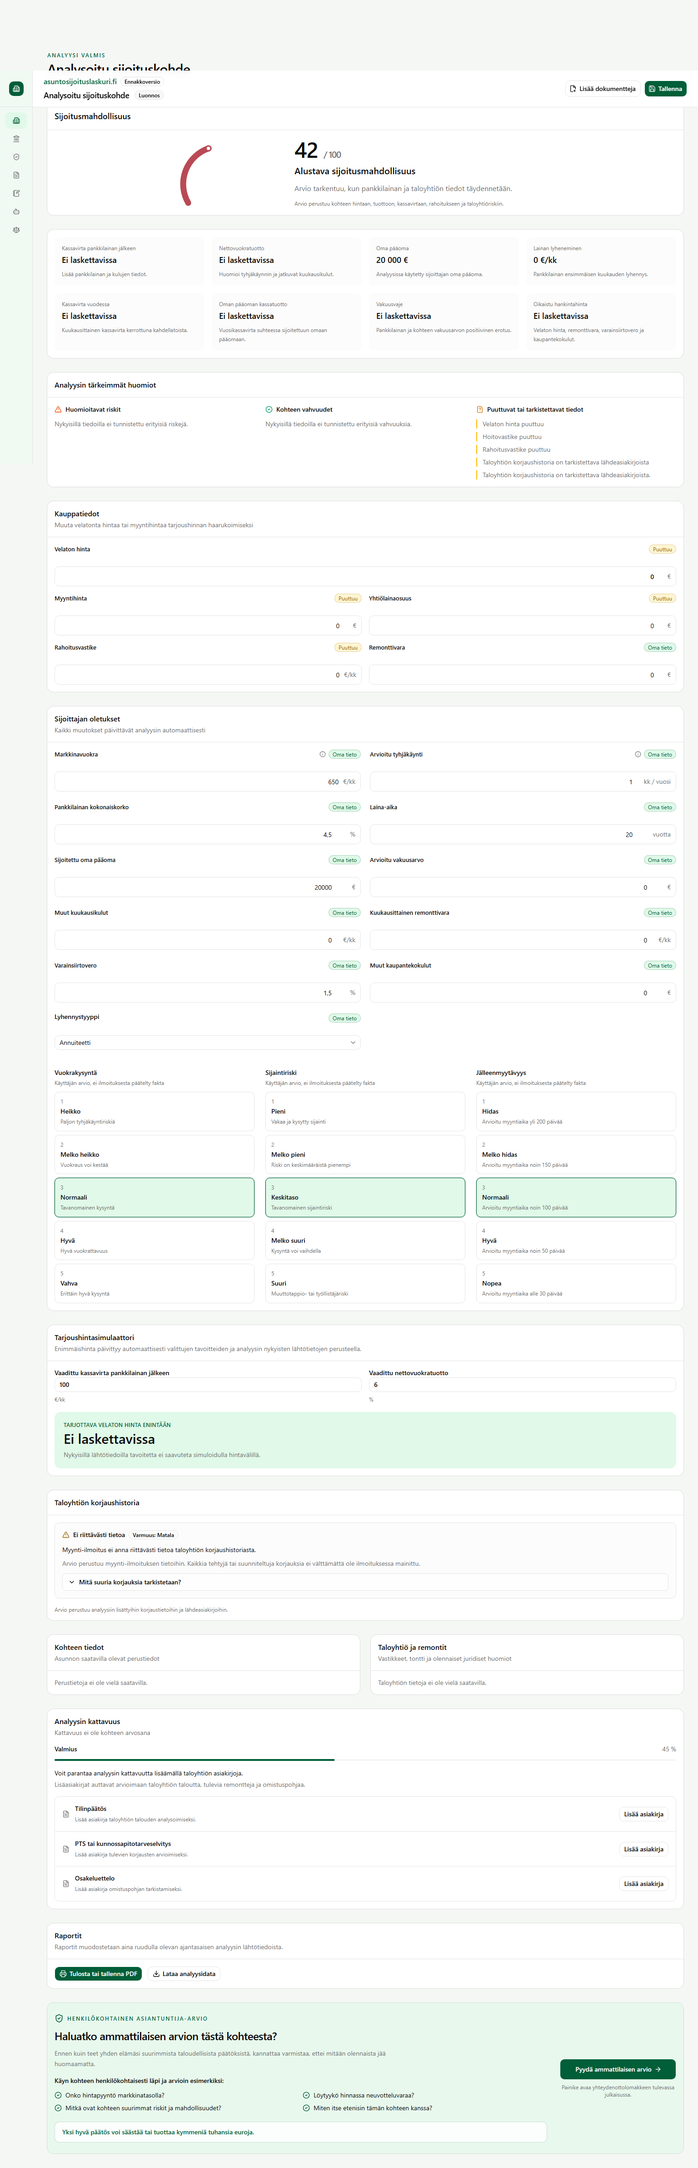
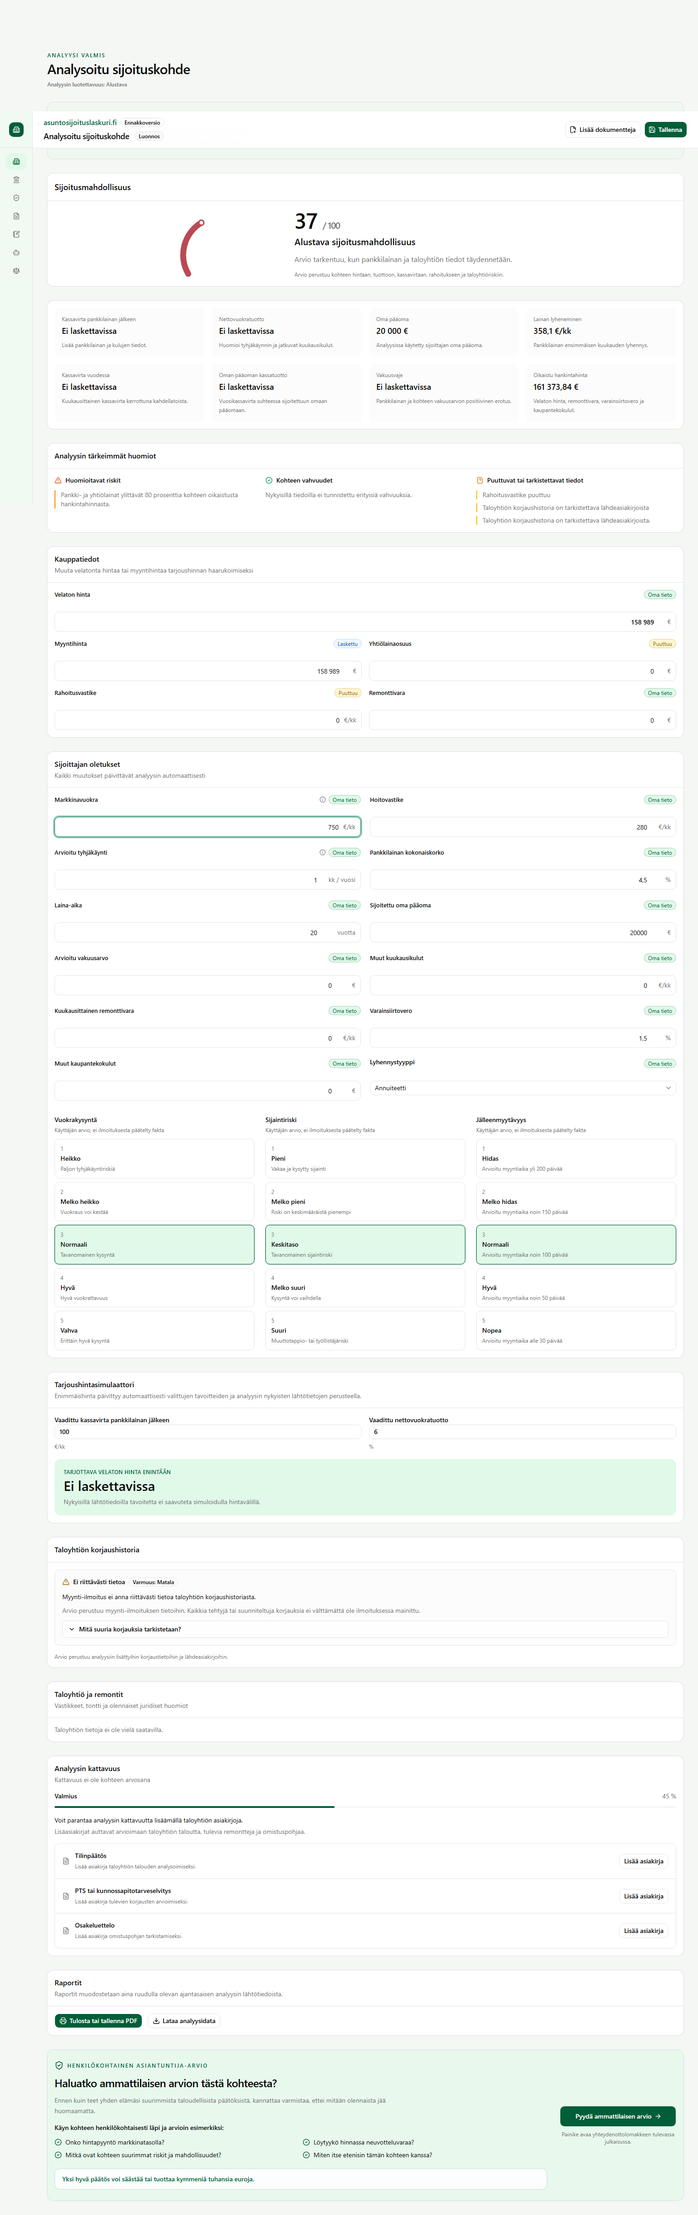
Improve analysis entry flow and remove duplicate property information

diff --git a/src/components/property/property-workspace.tsx b/src/components/property/property-workspace.tsx
@@ -3,6 +3,7 @@
 import { useState } from "react";
 import { TooltipProvider } from "@/components/ui/tooltip";
 import { analysisFacts, analysisTitle } from "@/core/analysis/analysis-presentation";
+import { missingCriticalAnalysisFields } from "@/core/analysis/analysis-entry";
 import { adaptInvestmentScore } from "@/core/analysis/investment-score-adapter";
 import { synchronizePrices, type PrimaryPriceField } from "@/core/calculations/purchase-price";
 import type { AnalysisReliability } from "@/core/analysis/requirements";
@@ -15,13 +16,14 @@ import { AnalysisCoverageCard } from "./analysis-coverage-card";
 import { AnalysisHighlights, KeyMetrics } from "./analysis-summary";
 import { AssumptionsCard, type AssumptionValues } from "./assumptions-card";
 import { DecisionSummaryCard } from "./decision-summary-card";
-import { HousingCompanyCard, PropertyDetailsCard } from "./details-cards";
+import { HousingCompanyCard } from "./details-cards";
 import { ImportSourceReview } from "./import-source-review";
 import { InvestmentOverallScore } from "./investment-overall-score";
-import { ProfessionalEvaluationCard } from "./professional-evaluation-card";
 import { OfferPriceCard } from "./offer-price-card";
-import { ReportsCard } from "./reports-card";
+import { ParserAnalysisSummary } from "./parser-analysis-summary";
+import { ProfessionalEvaluationCard } from "./professional-evaluation-card";
 import { PurchaseCard } from "./purchase-card";
+import { ReportsCard } from "./reports-card";
 import { WorkspaceHeader } from "./workspace-header";
 import { WorkspaceSidebar } from "./workspace-sidebar";
 
@@ -34,35 +36,33 @@ export function PropertyWorkspace({ importedData = {}, title, onRequestEvaluatio
   const [purchase, setPurchase] = useState<Record<PurchaseFieldKey, number>>(() => purchaseFromImport(importedData));
   const [statuses, setStatuses] = useState<Record<PurchaseFieldKey, FieldStatus>>({ debtFreePrice: importedData.debtFreePrice === undefined ? "missing" : "parser", salePrice: importedData.salePrice === undefined ? "missing" : "parser", companyLoanShare: importedData.companyLoanShare === undefined ? "missing" : "parser", financingFeeMonthly: importedData.financingFeeMonthly === undefined ? "missing" : "parser", renovationReserve: "user" });
   const [lastEditedPriceField, setLastEditedPriceField] = useState<PrimaryPriceField>("debtFreePrice");
-  const [assumptions, setAssumptions] = useState<AssumptionValues>(() => ({ monthlyRent: typeof importedData.currentRentMonthly === "number" ? importedData.currentRentMonthly : 650, vacancyMonths: 1, annualInterestRate: 4.5, loanTermYears: 20, equity: 20_000, repaymentType: "annuity", rentalDemand: 3, otherCostsMonthly: 0, maintenanceReserveMonthly: 0, collateralValue: typeof importedData.debtFreePrice === "number" ? importedData.debtFreePrice * .7 : 0, transferTaxRate: 1.5, transactionCosts: 0, locationRisk: 3, resaleLiquidity: 3 }));
+  const [assumptions, setAssumptions] = useState<AssumptionValues>(() => ({ monthlyRent: typeof importedData.currentRentMonthly === "number" ? importedData.currentRentMonthly : 0, maintenanceFeeMonthly: typeof importedData.maintenanceFeeMonthly === "number" ? importedData.maintenanceFeeMonthly : 0, vacancyMonths: 1, annualInterestRate: 4.5, loanTermYears: 20, equity: 20_000, repaymentType: "annuity", rentalDemand: 3, otherCostsMonthly: 0, maintenanceReserveMonthly: 0, collateralValue: typeof importedData.debtFreePrice === "number" ? importedData.debtFreePrice * .7 : 0, transferTaxRate: 1.5, transactionCosts: 0, locationRisk: 3, resaleLiquidity: 3 }));
   const [analysisUpdating, setAnalysisUpdating] = useState(false);
   const repairHistory = assessRepairHistory({ renovations: data.renovations ?? [], constructionYear: typeof data.constructionYear === "number" ? data.constructionYear : undefined, documentKinds: data.documentKinds ?? [], buildingType: typeof data.buildingType === "string" ? data.buildingType : undefined });
   const bankLoanAmount = Math.max(0, purchase.salePrice - assumptions.equity);
-  const scoreSource = { debtFreePrice: purchase.debtFreePrice || undefined, salePrice: purchase.salePrice || undefined, currentRentMonthly: assumptions.monthlyRent || undefined, maintenanceFeeMonthly: typeof data.maintenanceFeeMonthly === "number" ? data.maintenanceFeeMonthly : undefined, financingFeeMonthly: statuses.financingFeeMonthly === "missing" ? undefined : purchase.financingFeeMonthly, companyLoanShare: statuses.companyLoanShare === "missing" ? undefined : purchase.companyLoanShare, vacancyMonths: assumptions.vacancyMonths, otherCostsMonthly: assumptions.otherCostsMonthly, maintenanceReserveMonthly: assumptions.maintenanceReserveMonthly, renovationReserve: purchase.renovationReserve, transferTaxRate: assumptions.transferTaxRate, transactionCosts: assumptions.transactionCosts, bankLoanAmount, annualInterestRate: assumptions.annualInterestRate, loanTermYears: assumptions.loanTermYears, repaymentType: assumptions.repaymentType, equity: assumptions.equity, collateralValue: assumptions.collateralValue || undefined, rentalDemand: assumptions.rentalDemand, locationRisk: assumptions.locationRisk, resaleLiquidity: assumptions.resaleLiquidity, repairHistory };
+  const effectiveFinancingFee = purchase.companyLoanShare === 0 && statuses.companyLoanShare !== "missing" ? 0 : statuses.financingFeeMonthly === "missing" ? undefined : purchase.financingFeeMonthly;
+  const scoreSource = { debtFreePrice: purchase.debtFreePrice || undefined, salePrice: purchase.salePrice || undefined, currentRentMonthly: assumptions.monthlyRent || undefined, maintenanceFeeMonthly: assumptions.maintenanceFeeMonthly || undefined, financingFeeMonthly: effectiveFinancingFee, companyLoanShare: statuses.companyLoanShare === "missing" ? undefined : purchase.companyLoanShare, vacancyMonths: assumptions.vacancyMonths, otherCostsMonthly: assumptions.otherCostsMonthly, maintenanceReserveMonthly: assumptions.maintenanceReserveMonthly, renovationReserve: purchase.renovationReserve, transferTaxRate: assumptions.transferTaxRate, transactionCosts: assumptions.transactionCosts, bankLoanAmount, annualInterestRate: assumptions.annualInterestRate, loanTermYears: assumptions.loanTermYears, repaymentType: assumptions.repaymentType, equity: assumptions.equity, collateralValue: assumptions.collateralValue || undefined, rentalDemand: assumptions.rentalDemand, locationRisk: assumptions.locationRisk, resaleLiquidity: assumptions.resaleLiquidity, repairHistory };
   const overallScore = adaptInvestmentScore(scoreSource);
   const presentationData = { ...data, listingTitle: data.listingTitle ?? (title && title !== "Uusi kohde" ? title : undefined) };
   const pageTitle = analysisTitle(presentationData);
   const facts = analysisFacts(presentationData);
   const reliability = data.analysisReliability === "high" ? "Korkea" : data.analysisReliability === "moderate" ? "Kohtalainen" : "Alustava";
+  const missingCriticalFields = missingCriticalAnalysisFields({ debtFreePrice: purchase.debtFreePrice, maintenanceFeeMonthly: assumptions.maintenanceFeeMonthly, monthlyRent: assumptions.monthlyRent, annualInterestRate: assumptions.annualInterestRate, loanTermYears: assumptions.loanTermYears, vacancyMonths: assumptions.vacancyMonths, companyLoanShare: purchase.companyLoanShare, financingFeeKnown: effectiveFinancingFee !== undefined });
+  const analysisReady = missingCriticalFields.length === 0;
 
   function updatePurchase(key: PurchaseFieldKey, value: number) { setPurchase((current) => ["debtFreePrice", "salePrice", "companyLoanShare"].includes(key) ? { ...current, ...synchronizePrices(current, key as "debtFreePrice" | "salePrice" | "companyLoanShare", value, lastEditedPriceField) } : { ...current, [key]: value }); if (key === "debtFreePrice" || key === "salePrice") setLastEditedPriceField(key); setStatuses((current) => ({ ...current, [key]: "user", ...(key === "debtFreePrice" ? { salePrice: "derived" as const } : key === "salePrice" ? { debtFreePrice: "derived" as const } : key === "companyLoanShare" ? { [lastEditedPriceField === "debtFreePrice" ? "salePrice" : "debtFreePrice"]: "derived" as const } : {}) })); }
   function updateAssumption<K extends keyof AssumptionValues>(key: K, value: AssumptionValues[K]) { setAssumptions((current) => ({ ...current, [key]: value })); }
   function addDocument(kind: RepairDocumentKind) { setData((current) => ({ ...current, documentKinds: [...new Set([...(current.documentKinds ?? []), kind])] })); }
-  function updateImportedField(field: NormalizedFieldKey, value: number | string | undefined) { setData((current) => { const next = { ...current }; if (value === undefined) delete next[field]; else next[field] = value; return next; }); if (["debtFreePrice", "salePrice", "companyLoanShare", "financingFeeMonthly"].includes(field)) setPurchase((current) => ({ ...current, [field]: typeof value === "number" ? value : 0 })); }
+  function updateImportedField(field: NormalizedFieldKey, value: number | string | undefined) { setData((current) => { const next = { ...current }; if (value === undefined) delete next[field]; else next[field] = value; return next; }); if (["debtFreePrice", "salePrice", "companyLoanShare", "financingFeeMonthly"].includes(field)) setPurchase((current) => ({ ...current, [field]: typeof value === "number" ? value : 0 })); if (field === "maintenanceFeeMonthly" && typeof value === "number") updateAssumption("maintenanceFeeMonthly", value); if (field === "currentRentMonthly" && typeof value === "number") updateAssumption("monthlyRent", value); }
 
   return <TooltipProvider><div className="min-h-screen"><WorkspaceSidebar /><div className="min-w-0 min-[1100px]:pl-18 min-[1600px]:pl-60"><WorkspaceHeader title={pageTitle} location={typeof data.city === "string" ? data.city : ""} /><main className="mx-auto w-full max-w-[1500px] min-w-0 p-4 md:p-6 lg:p-8"><div className="min-w-0 space-y-8">
-    <header><p className="text-xs font-semibold uppercase tracking-[0.16em] text-success">Analyysi valmis</p><h1 className="mt-1 break-words text-2xl font-semibold tracking-tight sm:text-3xl">{pageTitle}</h1>{facts.length ? <p className="mt-2 text-sm text-muted-foreground">{facts.join(" · ")}</p> : null}<p className="mt-2 text-xs font-medium text-muted-foreground">Analyysin luotettavuus: {reliability}</p></header>
-    {analysisUpdating ? <p role="status" className="text-sm font-medium text-primary">Päivitetään analyysiä…</p> : null}
-    <InvestmentOverallScore {...overallScore} />
-    <KeyMetrics analysis={overallScore} />
-    <AnalysisHighlights rating={overallScore} />
+    <header><p className="text-xs font-semibold uppercase tracking-[0.16em] text-success">{analysisReady ? "Analyysi valmis" : "Analyysin lähtötiedot"}</p><h1 className="mt-1 break-words text-2xl font-semibold tracking-tight sm:text-3xl">{pageTitle}</h1>{facts.length ? <p className="mt-2 text-sm text-muted-foreground">{facts.join(" · ")}</p> : null}<p className="mt-2 text-xs font-medium text-muted-foreground">Analyysin luotettavuus: {reliability}</p></header>
+    <ParserAnalysisSummary result={data.importReview} missingFields={missingCriticalFields} compact={analysisReady} />
+    {analysisReady && analysisUpdating ? <p role="status" className="text-sm font-medium text-primary">Päivitetään analyysiä…</p> : null}
+    {analysisReady ? <><InvestmentOverallScore {...overallScore} /><KeyMetrics analysis={overallScore} /><AnalysisHighlights rating={overallScore} /></> : null}
     <section id="talous" className="scroll-mt-24 space-y-8"><PurchaseCard values={purchase} statuses={statuses} onChange={updatePurchase} /><AssumptionsCard values={assumptions} onChange={updateAssumption} onUpdating={setAnalysisUpdating} /></section>
-    <OfferPriceCard input={scoreSource} />
-    <DecisionSummaryCard repairHistory={repairHistory} />
-    <section id="kohde" className="grid min-w-0 scroll-mt-24 gap-6 lg:grid-cols-2"><PropertyDetailsCard importedData={data} /><HousingCompanyCard importedData={data} /></section>
-    <AnalysisCoverageCard documentKinds={data.documentKinds} onDocumentAdded={addDocument} />
+    {analysisReady ? <><OfferPriceCard input={scoreSource} /><DecisionSummaryCard repairHistory={repairHistory} /><section id="kohde" className="min-w-0 scroll-mt-24"><HousingCompanyCard importedData={data} /></section><AnalysisCoverageCard documentKinds={data.documentKinds} onDocumentAdded={addDocument} /></> : null}
     {data.importReview ? <section id="dokumentit" className="scroll-mt-24"><h2 className="mb-3 text-lg font-semibold">Analyysin lähtötiedot</h2><ImportSourceReview result={data.importReview} onChange={updateImportedField} /></section> : null}
-    <ReportsCard input={scoreSource} analysis={overallScore} />
-    <ProfessionalEvaluationCard onRequestEvaluation={onRequestEvaluation} />
+    {analysisReady ? <><ReportsCard input={scoreSource} analysis={overallScore} /><ProfessionalEvaluationCard onRequestEvaluation={onRequestEvaluation} /></> : null}
   </div></main></div></div></TooltipProvider>;
 }

diff --git a/src/components/property/assumptions-card.tsx b/src/components/property/assumptions-card.tsx
@@ -9,7 +9,7 @@ import { PropertyField } from "./property-field";
 import { RentalDemandSelector } from "./rental-demand-selector";
 import { SourceBadge } from "./status-badge";
 
-export type AssumptionValues = { monthlyRent: number; vacancyMonths: number; annualInterestRate: number; loanTermYears: number; equity: number; repaymentType: RepaymentType; rentalDemand: number; otherCostsMonthly: number; maintenanceReserveMonthly: number; collateralValue: number; transferTaxRate: number; transactionCosts: number; locationRisk: number; resaleLiquidity: number };
+export type AssumptionValues = { monthlyRent: number; maintenanceFeeMonthly: number; vacancyMonths: number; annualInterestRate: number; loanTermYears: number; equity: number; repaymentType: RepaymentType; rentalDemand: number; otherCostsMonthly: number; maintenanceReserveMonthly: number; collateralValue: number; transferTaxRate: number; transactionCosts: number; locationRisk: number; resaleLiquidity: number };
 
 function DebouncedRentField({ value, onChange, onUpdating }: { value: number; onChange: (value: number) => void; onUpdating: (value: boolean) => void }) {
   const [draft, setDraft] = useState(String(value));
@@ -21,6 +21,7 @@ export function AssumptionsCard({ values, onChange, onUpdating }: { values: Assu
   const repaymentLabels: Record<RepaymentType, string> = { annuity: "Annuiteetti", equal_principal: "Tasalyhennys", interest_only: "Vain korko", bullet: "Kertalyhenteinen laina" };
   return <Card><CardHeader className="border-b"><CardTitle>Sijoittajan oletukset</CardTitle><CardDescription>Kaikki muutokset päivittävät analyysin automaattisesti</CardDescription></CardHeader><CardContent className="space-y-8"><div className="grid min-w-0 grid-cols-1 gap-x-5 gap-y-6 sm:grid-cols-2 min-[1600px]:grid-cols-3">
     <DebouncedRentField value={values.monthlyRent} onChange={(value) => onChange("monthlyRent", value)} onUpdating={onUpdating} />
+    <PropertyField id="maintenance-fee" label="Hoitovastike" status="user" suffix="€/kk" type="number" min={0} value={values.maintenanceFeeMonthly} onChange={(event) => onChange("maintenanceFeeMonthly", Math.max(0, event.currentTarget.valueAsNumber || 0))} />
     <PropertyField id="vacancy-months" label="Arvioitu tyhjäkäynti" status="user" suffix="kk / vuosi" type="number" min={0} max={12} step={1} value={values.vacancyMonths} onChange={(event) => onChange("vacancyMonths", Math.min(12, Math.max(0, Math.round(event.currentTarget.valueAsNumber || 0))))} help={`Vuokrattuna arviolta ${12 - values.vacancyMonths} kk vuodessa.`} />
     <PropertyField id="interest" label="Pankkilainan kokonaiskorko" status="user" suffix="%" type="number" min={0} step="0.1" value={values.annualInterestRate} onChange={(event) => onChange("annualInterestRate", Math.max(0, event.currentTarget.valueAsNumber || 0))} />
     <PropertyField id="loan-term" label="Laina-aika" status="user" suffix="vuotta" type="number" min={1} value={values.loanTermYears} onChange={(event) => onChange("loanTermYears", Math.max(1, event.currentTarget.valueAsNumber || 1))} />

diff --git a/tests/analysis-header-layout.test.ts b/tests/analysis-header-layout.test.ts
@@ -11,5 +11,5 @@ test("huonejako, rakennustyyppi ja kerros normalisoituvat", () => { assert.equal
 test("huonejako ja rakennustyyppi johdetaan ilmoituksen otsikosta", () => { const result = parseListingText("", "etuovi", [{ field: "listingTitle", value: "3h + k + s, rivitalo Vaasa", label: "otsikko", excerpt: "h1" }]); assert.equal(result.findings.find((item) => item.field === "roomDescription")?.normalizedValue, "3h + k + s"); assert.equal(result.findings.find((item) => item.field === "buildingType")?.normalizedValue, "terraced"); });
 test("tontin omistusmuodot parsitaan automaattisesti", () => { for (const [input, expected] of [["Oma tontti", "owned"], ["Vuokratontti", "leased"], ["Valinnainen vuokratontti", "optional_leasehold"]] as const) assert.equal(parseListingText(`Tontin omistusmuoto: ${input}`).findings[0]?.normalizedValue, expected); });
 test("saatavilla oleva kuntotieto parsitaan", () => { assert.equal(parseListingText("Asunnon kunto: Hyvä").findings.find((item) => item.field === "condition")?.normalizedValue, "Hyvä"); });
-test("sivujärjestys alkaa johtopäätöksestä ja lähteet ovat lopussa", async () => { const workspace = await readFile(new URL("../src/components/property/property-workspace.tsx", import.meta.url), "utf8"); const score = workspace.indexOf("<InvestmentOverallScore"); const details = workspace.indexOf("<PropertyDetailsCard"); const sources = workspace.indexOf("<ImportSourceReview"); assert.ok(score > 0 && details > score && sources > details); assert.doesNotMatch(workspace, />Uusi kohde</); for (const value of ["AnalysisHighlights", "KeyMetrics", "Analyysin lähtötiedot"]) assert.ok(workspace.includes(value)); });
+test("sivujärjestys alkaa parseriyhteenvedosta ja lähteet ovat lopussa", async () => { const workspace = await readFile(new URL("../src/components/property/property-workspace.tsx", import.meta.url), "utf8"); const parser = workspace.indexOf("<ParserAnalysisSummary"); const score = workspace.indexOf("<InvestmentOverallScore"); const sources = workspace.indexOf("<ImportSourceReview"); assert.ok(parser > 0 && score > parser && sources > score); assert.doesNotMatch(workspace, /PropertyDetailsCard|>Kohteen tiedot</); for (const value of ["AnalysisHighlights", "KeyMetrics", "Analyysin lähtötiedot", "analysisReady ?"]) assert.ok(workspace.includes(value)); });
 test("puuttuvat kentät ja suuret tonttilomakkeet eivät renderöidy", async () => { const details = await readFile(new URL("../src/components/property/details-cards.tsx", import.meta.url), "utf8"); assert.doesNotMatch(details, /SelectField|SelectTrigger|placeholder="Ei tiedossa"/); assert.match(details, /if \(present\(importedData\.landOwnership\)\)/); assert.match(details, /if \(present\(importedData\.condition\)\)/); });

diff --git a/src/components/property/parser-analysis-summary.tsx b/src/components/property/parser-analysis-summary.tsx
@@ -1,0 +1,19 @@
+import { CheckCircle2 } from "lucide-react";
+import { Card, CardContent } from "@/components/ui/card";
+import type { ListingParseResult } from "@/core/parser/listing-parser";
+import { criticalFields } from "@/core/parser/synonyms";
+
+function reliabilityStars(result?: ListingParseResult): string {
+  if (!result?.findings.length) return "☆☆☆☆☆";
+  const average = result.findings.reduce((sum, finding) => sum + finding.confidenceScore, 0) / result.findings.length;
+  const filled = Math.max(1, Math.min(5, Math.round(average / 20)));
+  return `${"★".repeat(filled)}${"☆".repeat(5 - filled)}`;
+}
+
+export function ParserAnalysisSummary({ result, missingFields, compact = false }: { result?: ListingParseResult; missingFields: string[]; compact?: boolean }) {
+  const found = result ? new Set(result.findings.filter((finding) => finding.validationResult === "accepted" && !finding.conflicts.length).map((finding) => finding.field)).size : 0;
+  const complete = missingFields.length === 0;
+  const stars = reliabilityStars(result);
+  const title = result ? "Analysoimme ilmoituksen onnistuneesti" : complete ? "Analyysin lähtötiedot ovat valmiit" : "Täydennä analyysin lähtötiedot";
+  return <Card className="border-success/25 bg-success-soft/30"><CardContent className={compact ? "py-3" : "space-y-5 py-2"}><div className="flex gap-3"><CheckCircle2 className="mt-0.5 size-5 shrink-0 text-success" /><div className="min-w-0"><p className="font-semibold">{title}</p>{result ? <p className="mt-1 text-sm text-muted-foreground">Löysimme <strong className="text-foreground">{found} / {criticalFields.length}</strong> analyysissä tarvittavaa tietoa automaattisesti.</p> : <p className="mt-1 text-sm text-muted-foreground">{complete ? "Kaikki analyysin muodostamiseen tarvittavat kriittiset tiedot ovat käytettävissä." : "Syötä vain analyysin muodostamiseen tarvittavat puuttuvat tiedot."}</p>}{result ? <p className="mt-2 text-sm"><span className="text-muted-foreground">Parserin luotettavuus:</span> <span aria-label={`${stars.replaceAll("☆", "").length} tähteä viidestä`} className="tracking-wider text-success">{stars}</span></p> : null}</div></div>{!compact && !complete ? <div className="rounded-lg border bg-background/70 p-4"><p className="text-sm font-medium">Täydennä vielä nämä kriittiset tiedot:</p><ul className="mt-2 list-inside list-disc space-y-1 text-sm text-muted-foreground">{missingFields.map((field) => <li key={field}>{field}</li>)}</ul><p className="mt-3 text-sm text-muted-foreground">Kun tiedot ovat valmiit, muodostamme sijoitusanalyysin automaattisesti.</p></div> : null}</CardContent></Card>;
+}

diff --git a/tests/analysis-entry-flow.test.ts b/tests/analysis-entry-flow.test.ts
@@ -1,0 +1,22 @@
+import test from "node:test";
+import assert from "node:assert/strict";
+import { readFile } from "node:fs/promises";
+import { missingCriticalAnalysisFields } from "../src/core/analysis/analysis-entry.ts";
+
+const complete = { debtFreePrice: 120_000, maintenanceFeeMonthly: 280, monthlyRent: 850, annualInterestRate: 4.5, loanTermYears: 20, vacancyMonths: 1, companyLoanShare: 0, financingFeeKnown: true };
+
+test("puuttuvien kriittisten tietojen lista muodostuu vain unknown-arvoista", () => {
+  assert.deepEqual(missingCriticalAnalysisFields(complete), []);
+  assert.deepEqual(missingCriticalAnalysisFields({ ...complete, monthlyRent: undefined, annualInterestRate: undefined }), ["Kuukausivuokra", "Pankkilainan korko"]);
+  assert.deepEqual(missingCriticalAnalysisFields({ ...complete, companyLoanShare: 20_000, financingFeeKnown: false }), ["Rahoitusvastike"]);
+});
+
+test("parseriyhteenveto edeltää scorea ja score on readiness-ehdon takana", async () => {
+  const workspace = await readFile(new URL("../src/components/property/property-workspace.tsx", import.meta.url), "utf8");
+  const summary = await readFile(new URL("../src/components/property/parser-analysis-summary.tsx", import.meta.url), "utf8");
+  assert.ok(workspace.indexOf("<ParserAnalysisSummary") < workspace.indexOf("<InvestmentOverallScore"));
+  assert.match(workspace, /analysisReady \? <><InvestmentOverallScore/);
+  assert.match(summary, /missingFields\.map/);
+  assert.ok(summary.includes("Löysimme") && summary.includes("found") && summary.includes("criticalFields.length"));
+  assert.match(summary, /Parserin luotettavuus/);
+});

diff --git a/src/core/analysis/analysis-entry.ts b/src/core/analysis/analysis-entry.ts
@@ -1,0 +1,13 @@
+export type AnalysisEntryInput = { debtFreePrice?: number; maintenanceFeeMonthly?: number; monthlyRent?: number; annualInterestRate?: number; loanTermYears?: number; vacancyMonths?: number; companyLoanShare?: number; financingFeeKnown: boolean };
+
+export function missingCriticalAnalysisFields(input: AnalysisEntryInput): string[] {
+  return [
+    !(typeof input.debtFreePrice === "number" && input.debtFreePrice > 0) ? "Velaton hinta" : null,
+    !(typeof input.maintenanceFeeMonthly === "number" && input.maintenanceFeeMonthly > 0) ? "Hoitovastike" : null,
+    !(typeof input.monthlyRent === "number" && input.monthlyRent > 0) ? "Kuukausivuokra" : null,
+    !Number.isFinite(input.annualInterestRate) ? "Pankkilainan korko" : null,
+    !(typeof input.loanTermYears === "number" && input.loanTermYears > 0) ? "Laina-aika" : null,
+    !Number.isFinite(input.vacancyMonths) ? "Tyhjäkäyntikuukaudet" : null,
+    (input.companyLoanShare ?? 0) > 0 && !input.financingFeeKnown ? "Rahoitusvastike" : null,
+  ].filter((field): field is string => field !== null);
+}
